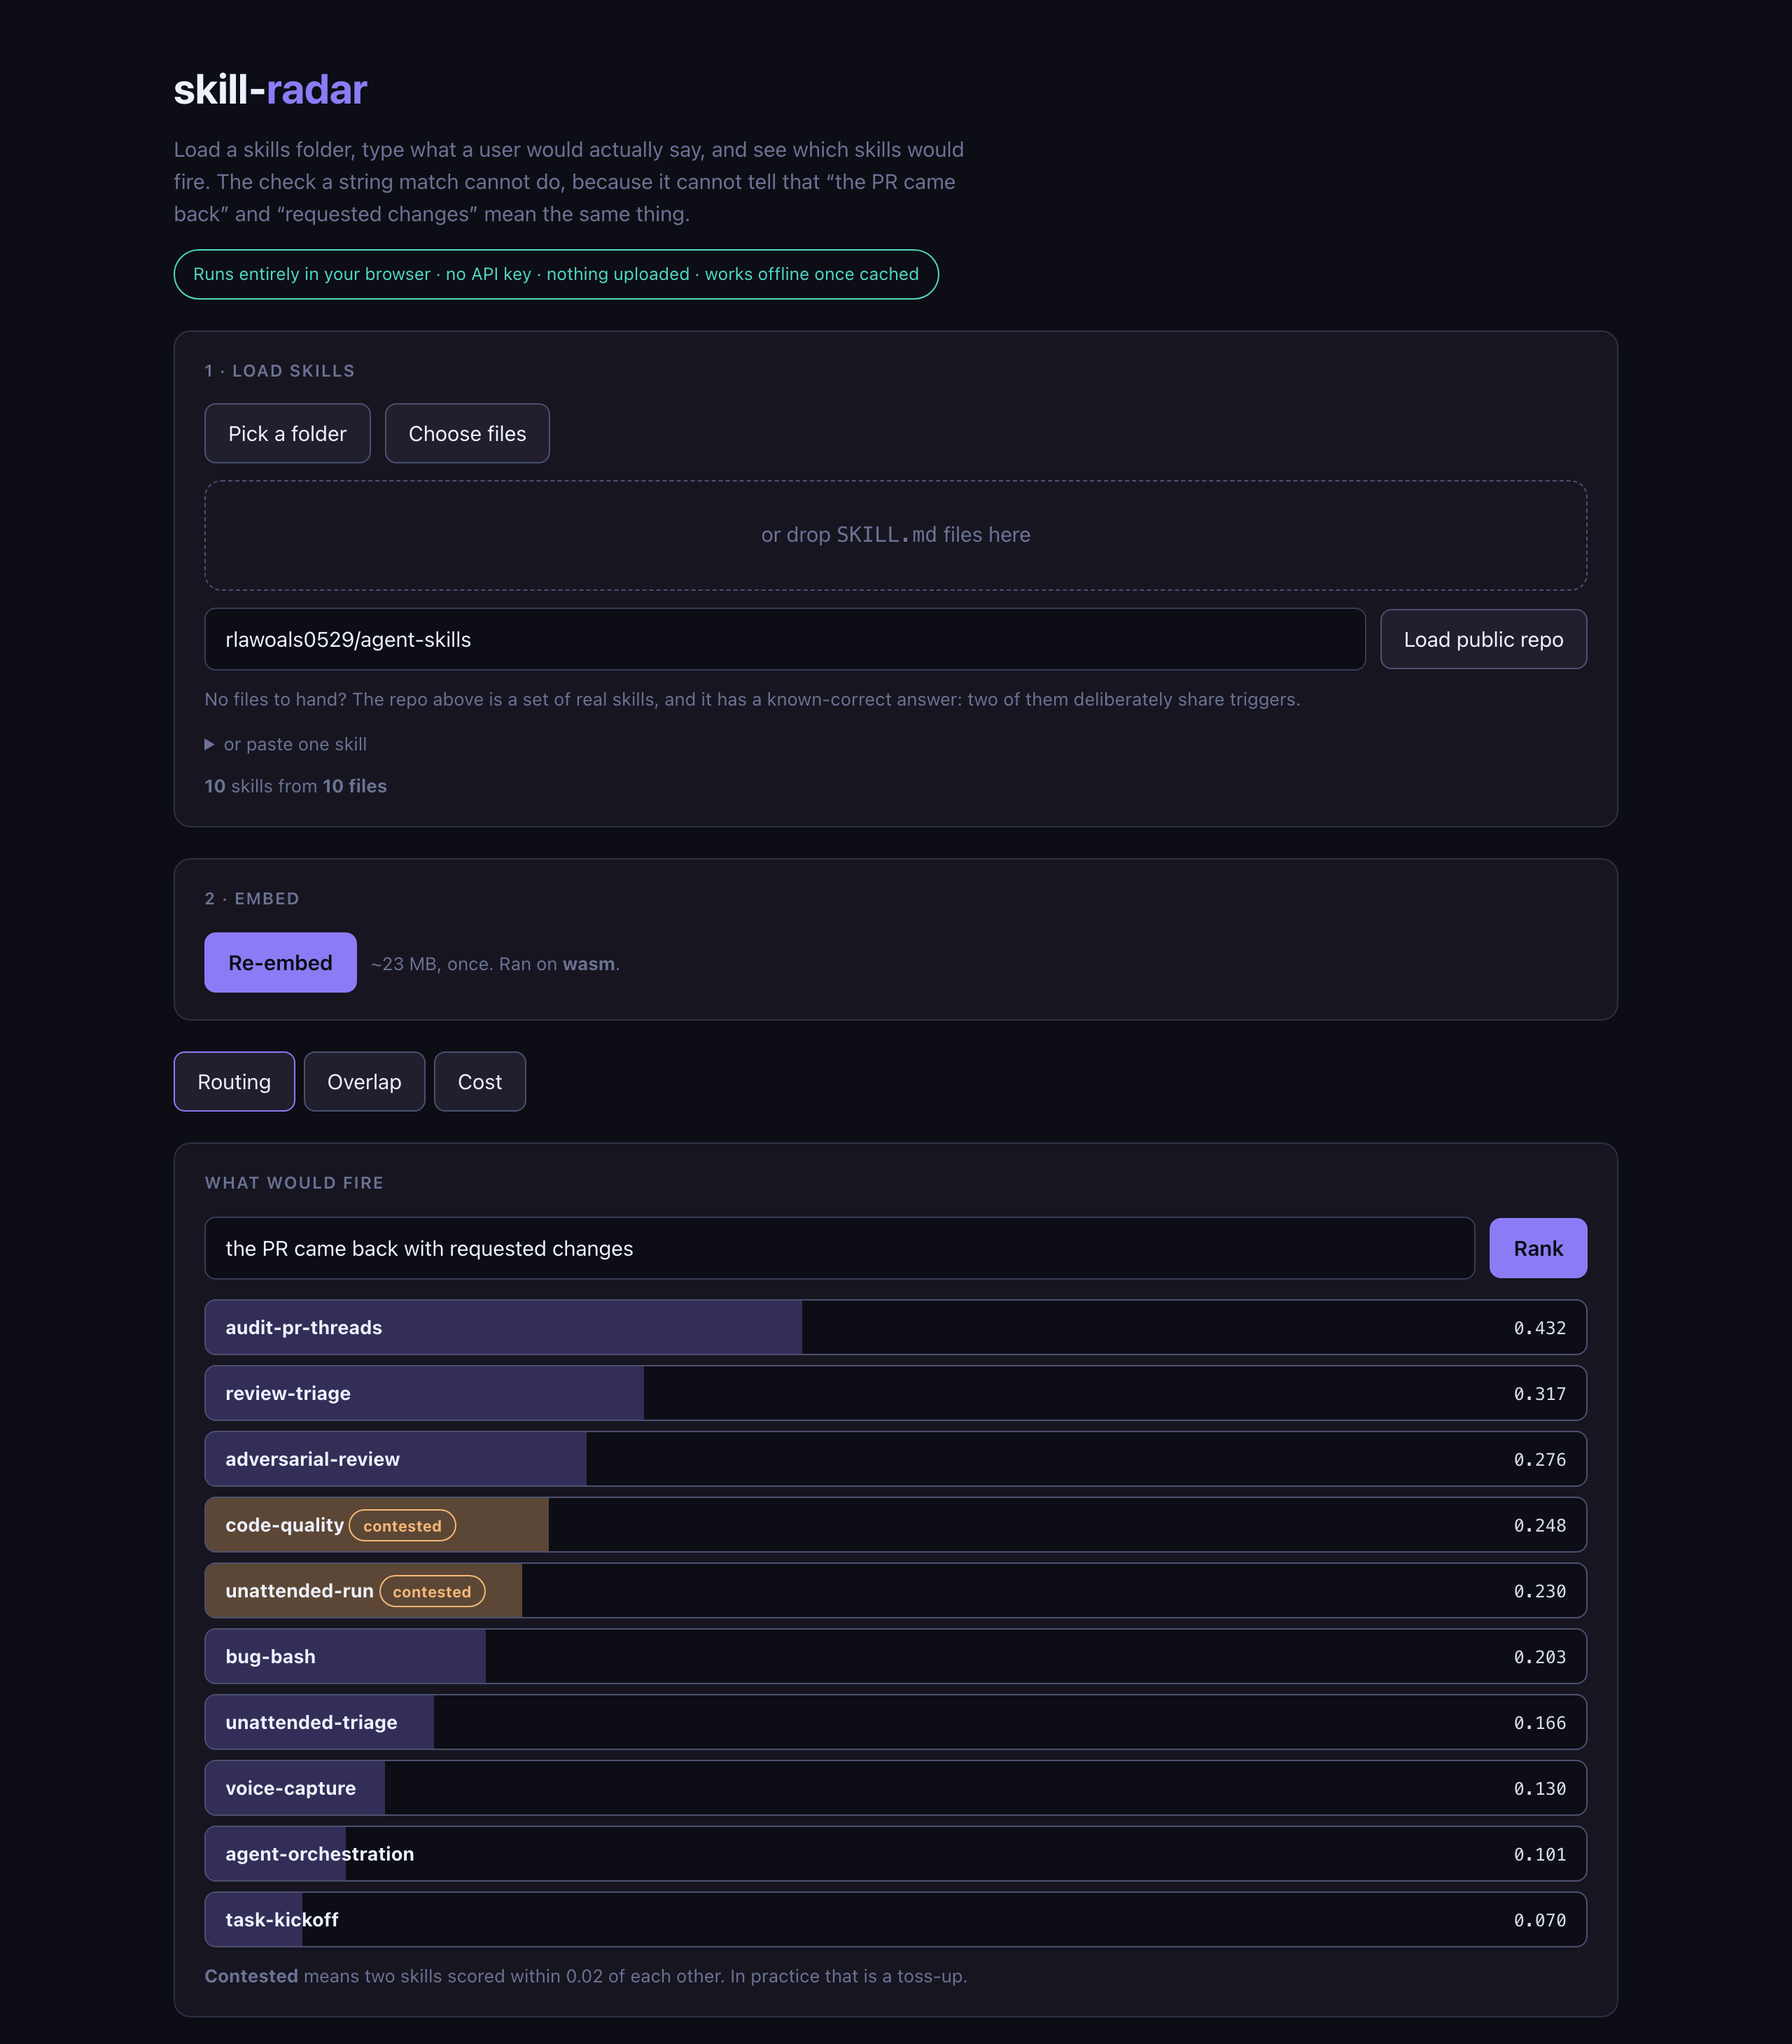
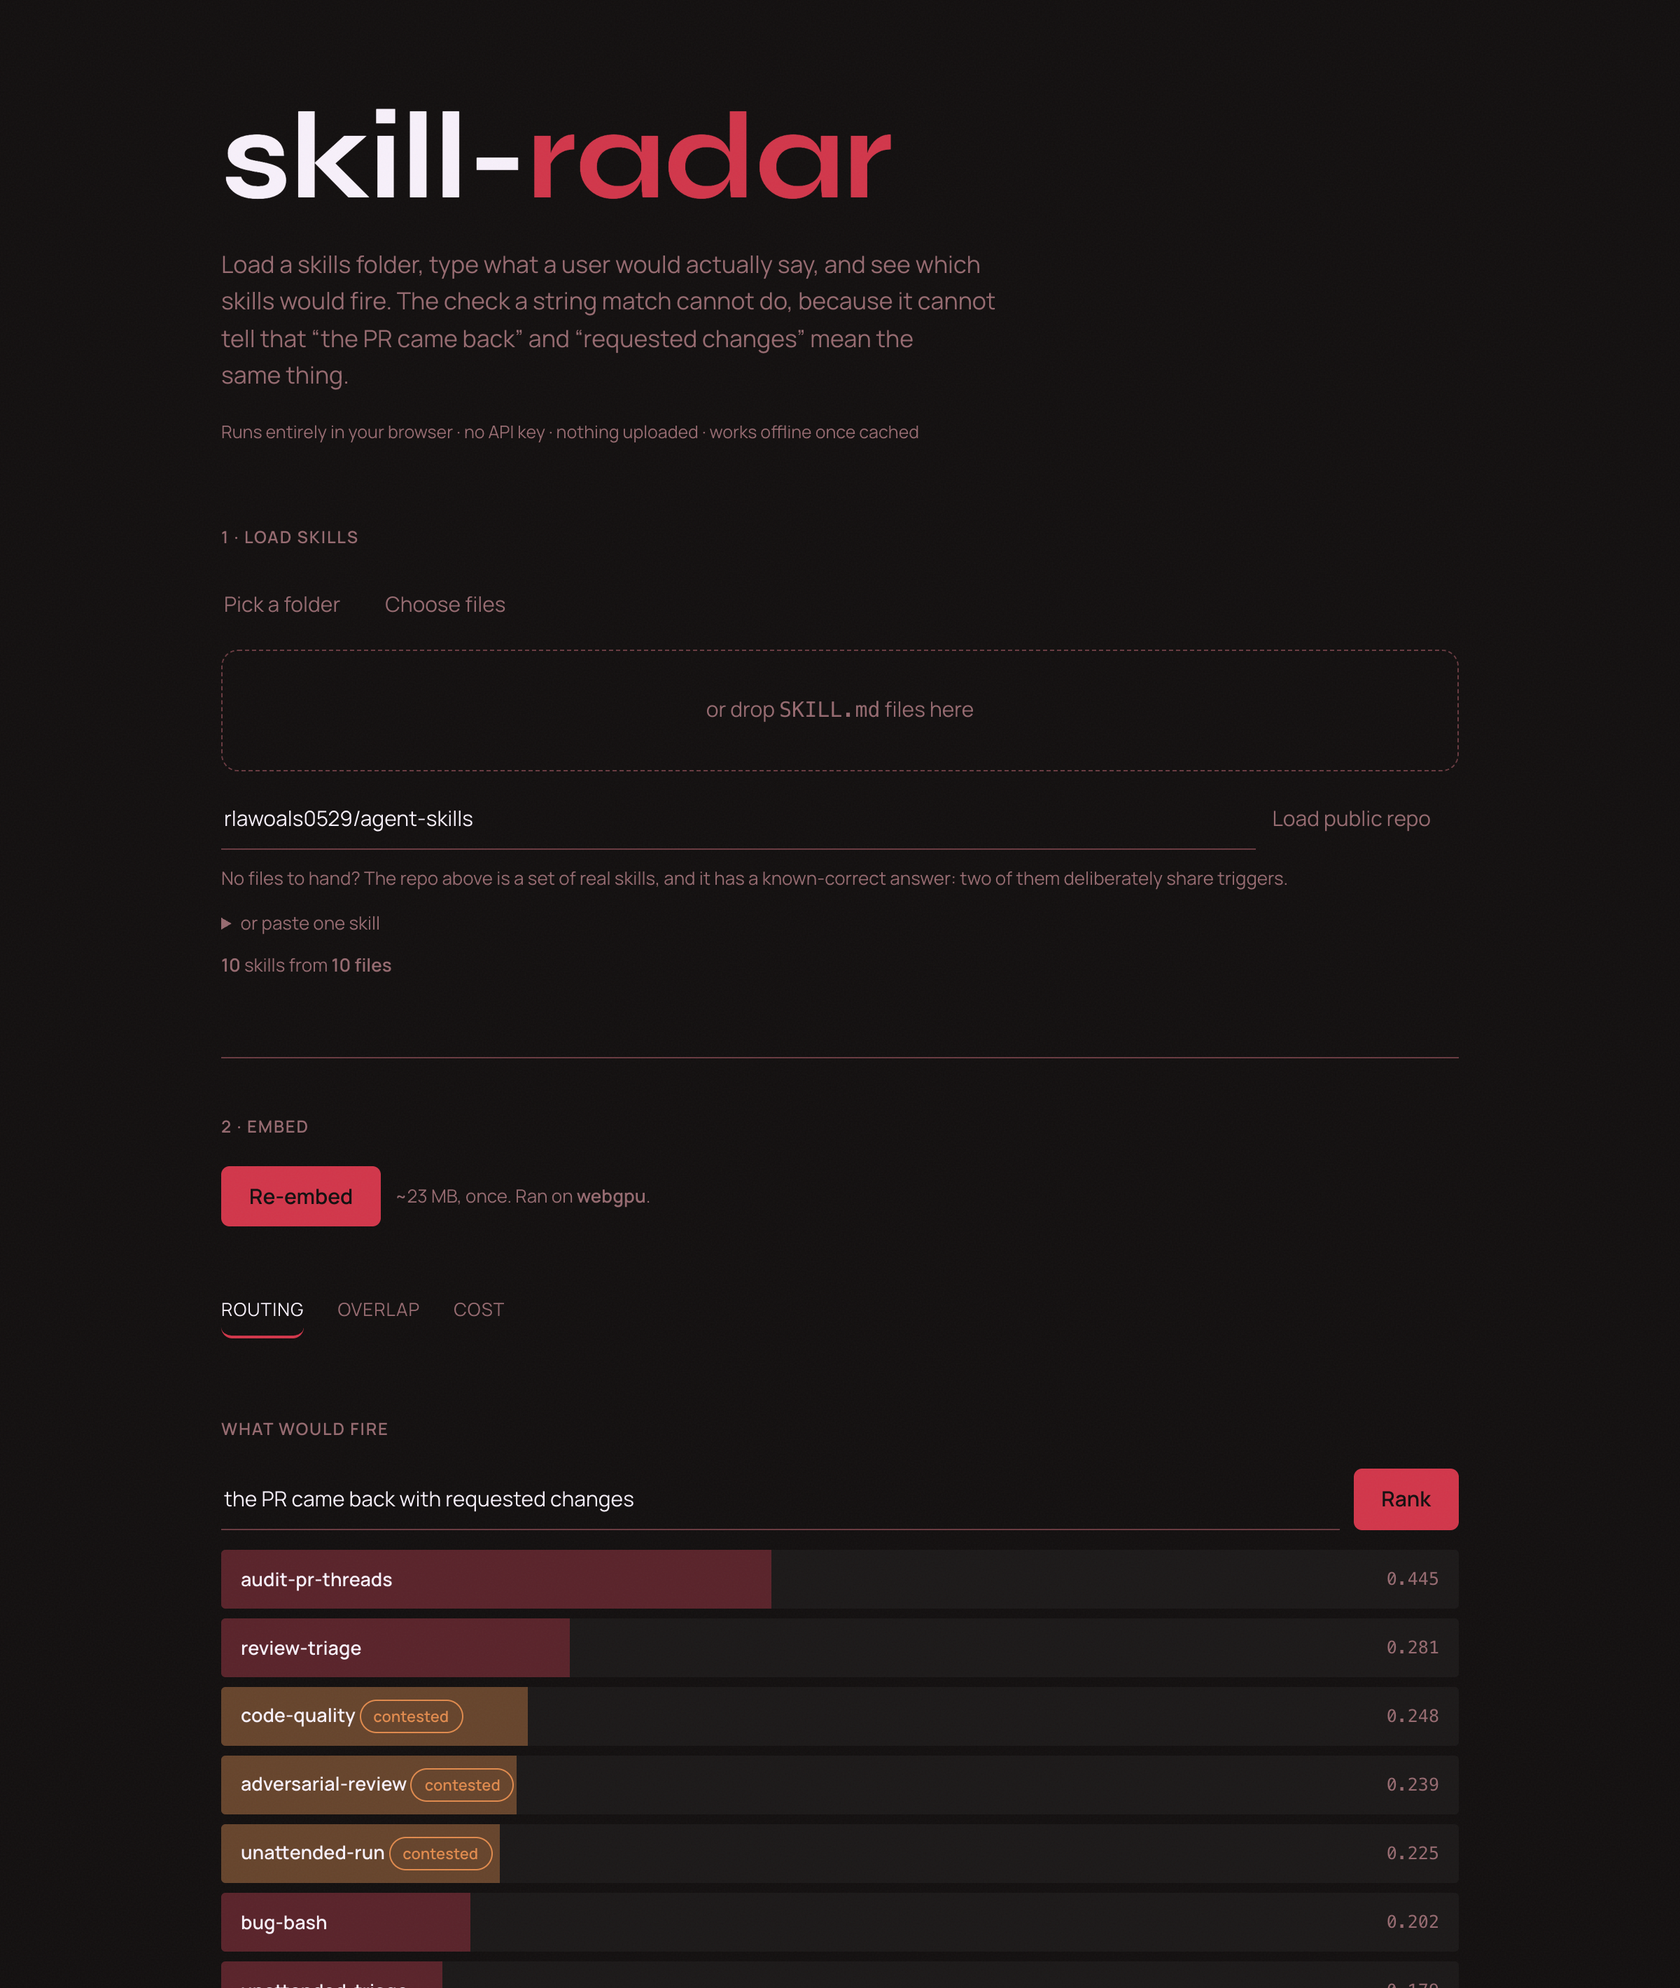
Reshoot the screenshot against the redesign
The README still showed seven outlined boxes and the violet accent.

diff --git a/src/theme/palette.css b/src/theme/palette.css
@@ -10,8 +10,8 @@
   --accent: #d1364a;
   --accent-2: #c9bfe0;
   --fg: #f7f0fa;
-  --dim: #7d6a96;
-  --edge: #4e3a68;
+  --dim: #966a70;
+  --edge: #683a40;
   --ok: #6fcf97;
   --warn: #e08a4d;
   --err: #ff5d6b;
